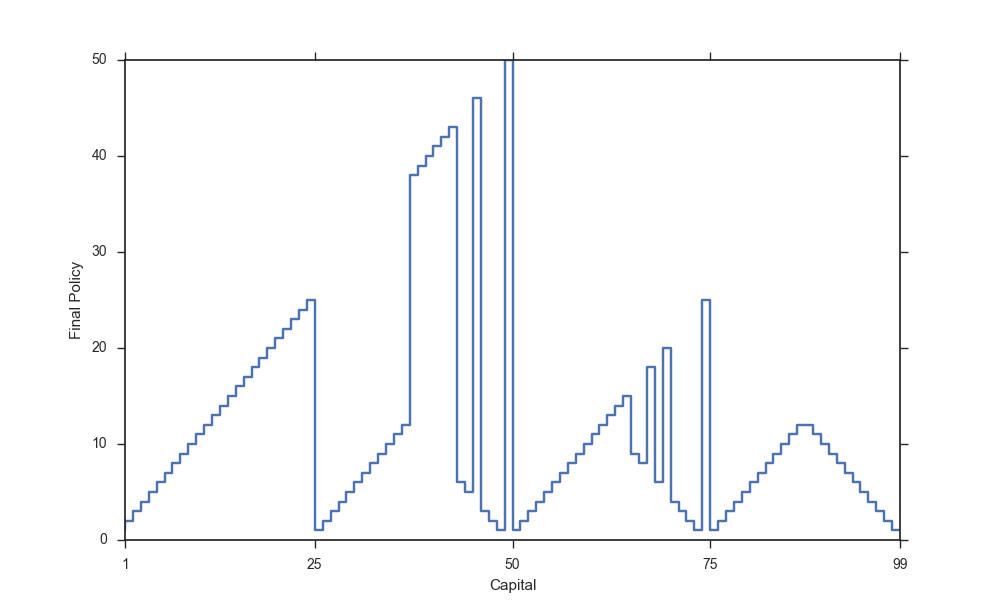
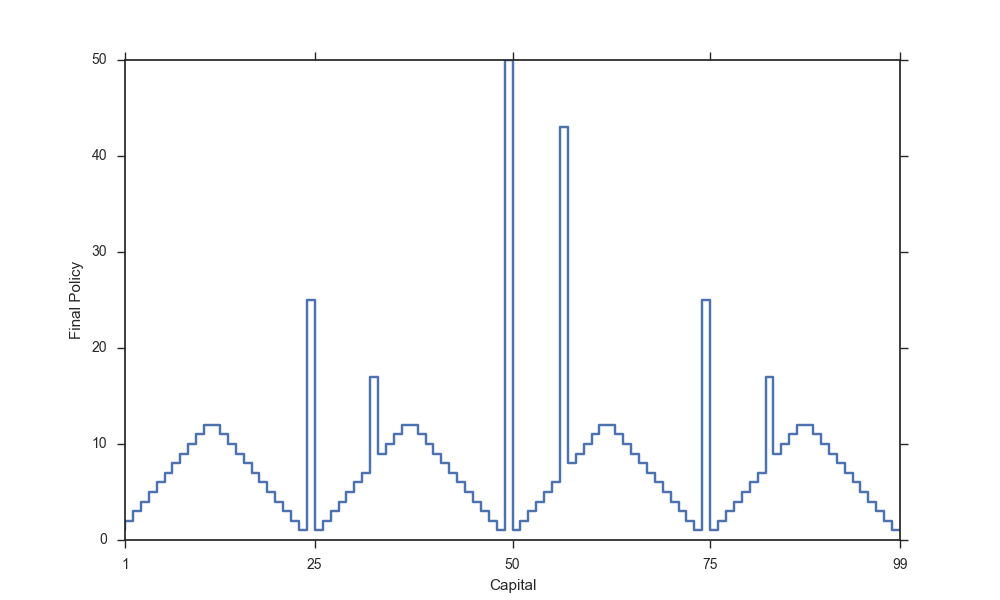
a

diff --git a/value_iteration/train.py b/value_iteration/train.py
@@ -11,6 +11,10 @@ def get_actions(state):
 
 # 価値関数
 def get_value(state):
+	if state == 0:
+		return 0.0
+	if state == 100:
+		return 1.0
 	return V[state]
 
 # 方策
@@ -79,7 +83,7 @@ p = 0.4
 discount_rate = 1
 
 # Δのしきい値
-delta_threshold = 0.00001
+delta_threshold = 1e-20
 
 # Plot
 sns.set_style("ticks")
